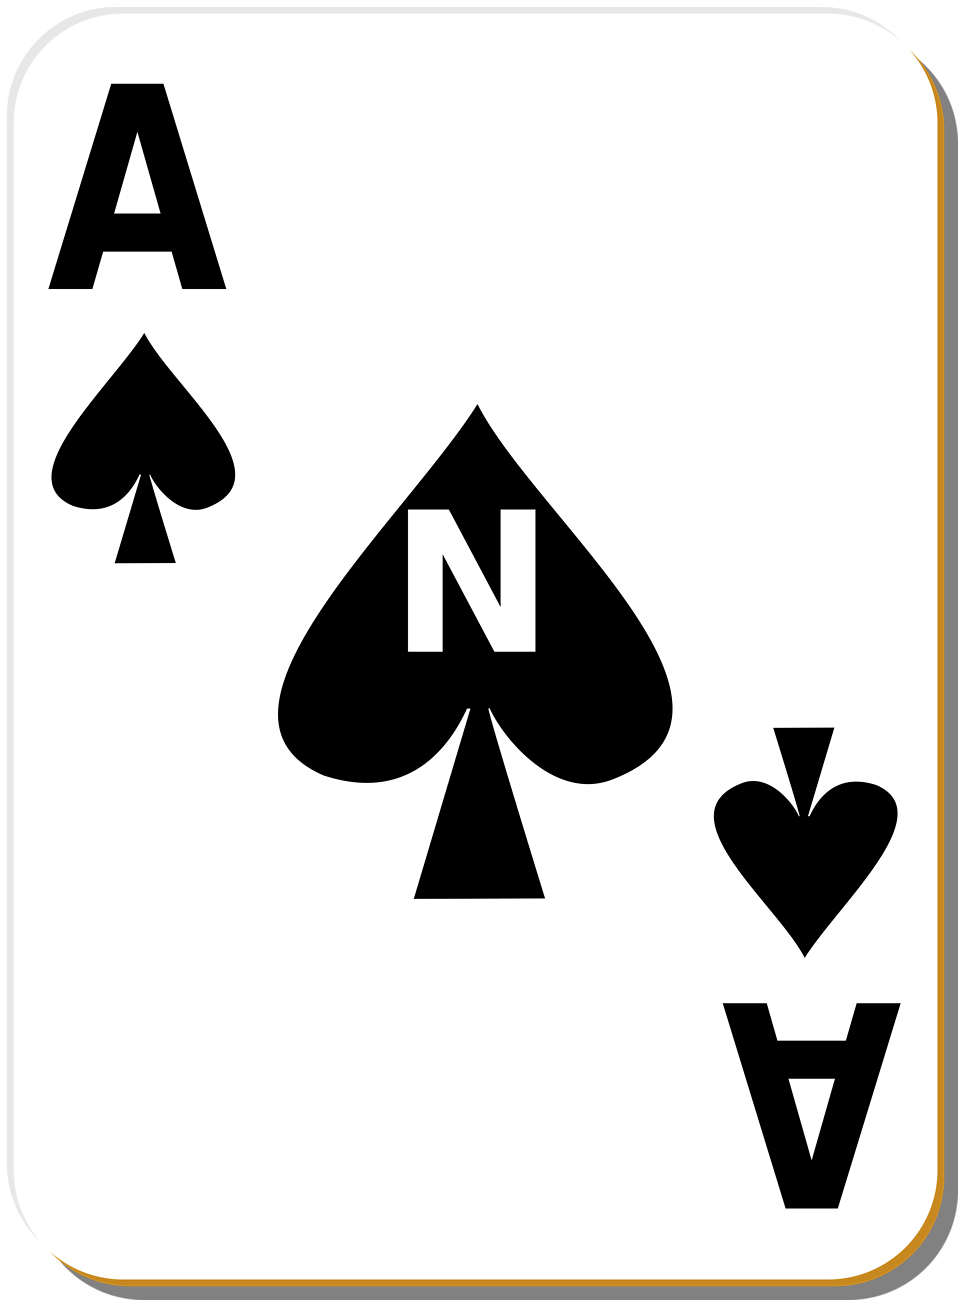
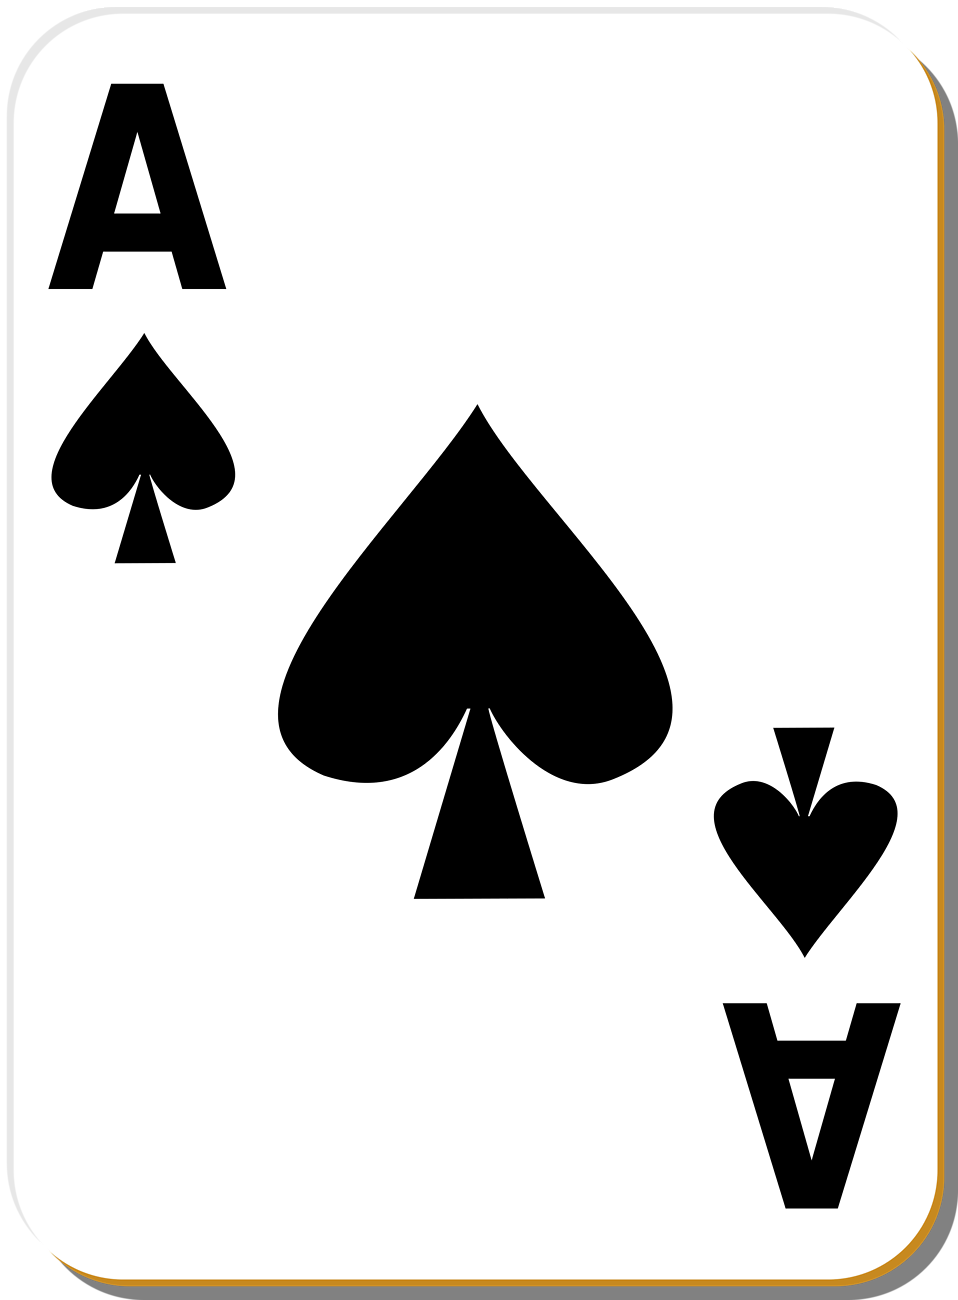
fixed ace graphics, fixed card rotation

Changed region(s): [[0.4238, 0.3692, 0.5752, 0.5231]]

diff --git a/js/player.js b/js/player.js
@@ -266,6 +266,8 @@ Player.prototype.updated_cards = function()
 		if (this.show_cards == false)
 		{
 			var diff = (i -(this.cards.length-1)/2);
+			if (this.card_pos == "top")
+				diff = -diff;
 			drawY-= Math.abs(diff*2);
 			this.cards[i].newRotate = diff*8;
 		}
